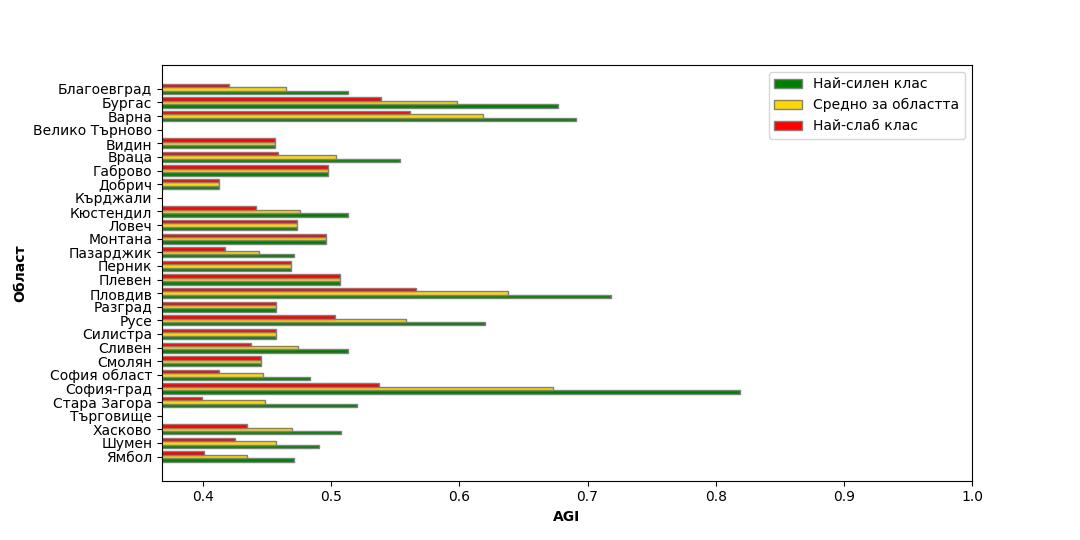
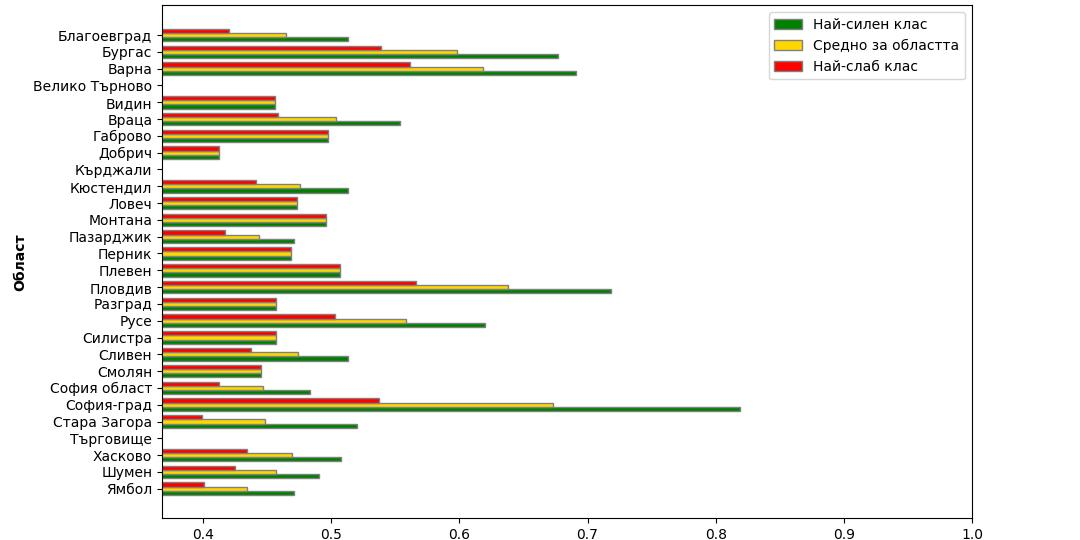
Updated

diff --git a/derive_data_and_plots.py b/derive_data_and_plots.py
@@ -8,7 +8,7 @@ from glob import glob
 import cv2
 from matplotlib.patches import Patch
 
-generate_data = True
+generate_data = False
 generate_plots = True
 
 file = 'data/merged_ALL_outer.csv'
@@ -1004,7 +1004,7 @@ legend_elements = [Patch(facecolor='g', label='Индекс на приет кл
                    Patch(facecolor='firebrick', label='Индекс на неприет клас'), 
                    Patch(facecolor='coral', label='Индекс на най-силен неприет ученик')]
 ax.set_xlim([0.368,1.05])
-fig.subplots_adjust(left=0.15, top = 0.99, bottom = 0.05)
+fig.subplots_adjust(left=0.15, top = 0.99, bottom = 0.06)
 plt.xlabel('AGI', fontweight ='bold', fontsize = 10) 
 plt.ylabel('Област', fontweight ='bold', fontsize = 10)
 plt.yticks([r + 0.5*barWidth for r in range(len(cacc_cls))], clabel_lst)
@@ -1037,7 +1037,7 @@ legend_elements = [Patch(facecolor='g', label='Индекс на приет кл
                    Patch(facecolor='firebrick', label='Индекс на неприет клас'), 
                    Patch(facecolor='coral', label='Индекс на най-силен неприет ученик')]
 ax.set_xlim([0.368,1.05])
-fig.subplots_adjust(left=0.15, top = 0.99, bottom = 0.05)
+fig.subplots_adjust(left=0.15, top = 0.99, bottom = 0.06)
 plt.xlabel('AGI', fontweight ='bold', fontsize = 10) 
 plt.ylabel('Област', fontweight ='bold', fontsize = 10)
 plt.yticks([r + 0.5*barWidth for r in range(len(cacc_cls))], clabel_lst)
@@ -1070,12 +1070,14 @@ legend_elements = [Patch(facecolor='g', label='Индекс на приет кл
                    Patch(facecolor='firebrick', label='Индекс на неприет клас'), 
                    Patch(facecolor='coral', label='Индекс на най-силен неприет ученик')]
 ax.set_xlim([0.368,1.05])
-fig.subplots_adjust(left=0.15, top = 0.99, bottom = 0.05)
+fig.subplots_adjust(left=0.15, top = 0.99, bottom = 0.06)
 plt.xlabel('AGI', fontweight ='bold', fontsize = 10) 
 plt.ylabel('Област', fontweight ='bold', fontsize = 10)
 plt.yticks([r + 0.5*barWidth for r in range(len(cacc_cls))], clabel_lst)
 plt.legend(handles=legend_elements)
 plt.savefig(plot_fld+'dist_AGI_classes_3.jpg')
+
+exit()
 
 rmun_lst = ['Благоевград','Бургас','Варна','Велико Търново','Видин','Враца','Габрово','Добрич','Кърджали','Кюстендил','Ловеч','Монтана','Пазарджик','Перник','Плевен','Пловдив','Разград','Русе','Силистра','Сливен','Смолян','София област','София-град','Стара Загора','Търговище','Хасково','Шумен','Ямбол']
 rmun_lst.reverse()
@@ -1095,7 +1097,7 @@ ax.barh(br1, acc_cls, barWidth, color ='r',
         edgecolor ='grey', label ='Прием на класове') 
 ax.barh(br2, sup_cls, barWidth, color ='g', 
         edgecolor ='grey', label ='Kласове по резултат')
-fig.subplots_adjust(left=0.15)
+fig.subplots_adjust(left=0.15, top = 0.99, bottom = 0.04)
 plt.xlabel('Брой класове', fontweight ='bold', fontsize = 10) 
 plt.ylabel('Област', fontweight ='bold', fontsize = 10)
 plt.yticks([r + 0.5*barWidth for r in range(len(acc_cls))], rmun_lst)
@@ -1122,7 +1124,7 @@ ax.barh(br2, sup_cls, barWidth, color ='gold',
 ax.barh(br3, low_cls, barWidth, color ='r', 
         edgecolor ='grey', label ='Най-слаб клас')
 ax.set_xlim([0.368,1.0])
-fig.subplots_adjust(left=0.15)
+fig.subplots_adjust(left=0.15, top = 0.99, bottom = 0.04)
 plt.xlabel('AGI', fontweight ='bold', fontsize = 10) 
 plt.ylabel('Област', fontweight ='bold', fontsize = 10)
 plt.yticks([r + barWidth for r in range(len(acc_cls))], rmun_lst)
